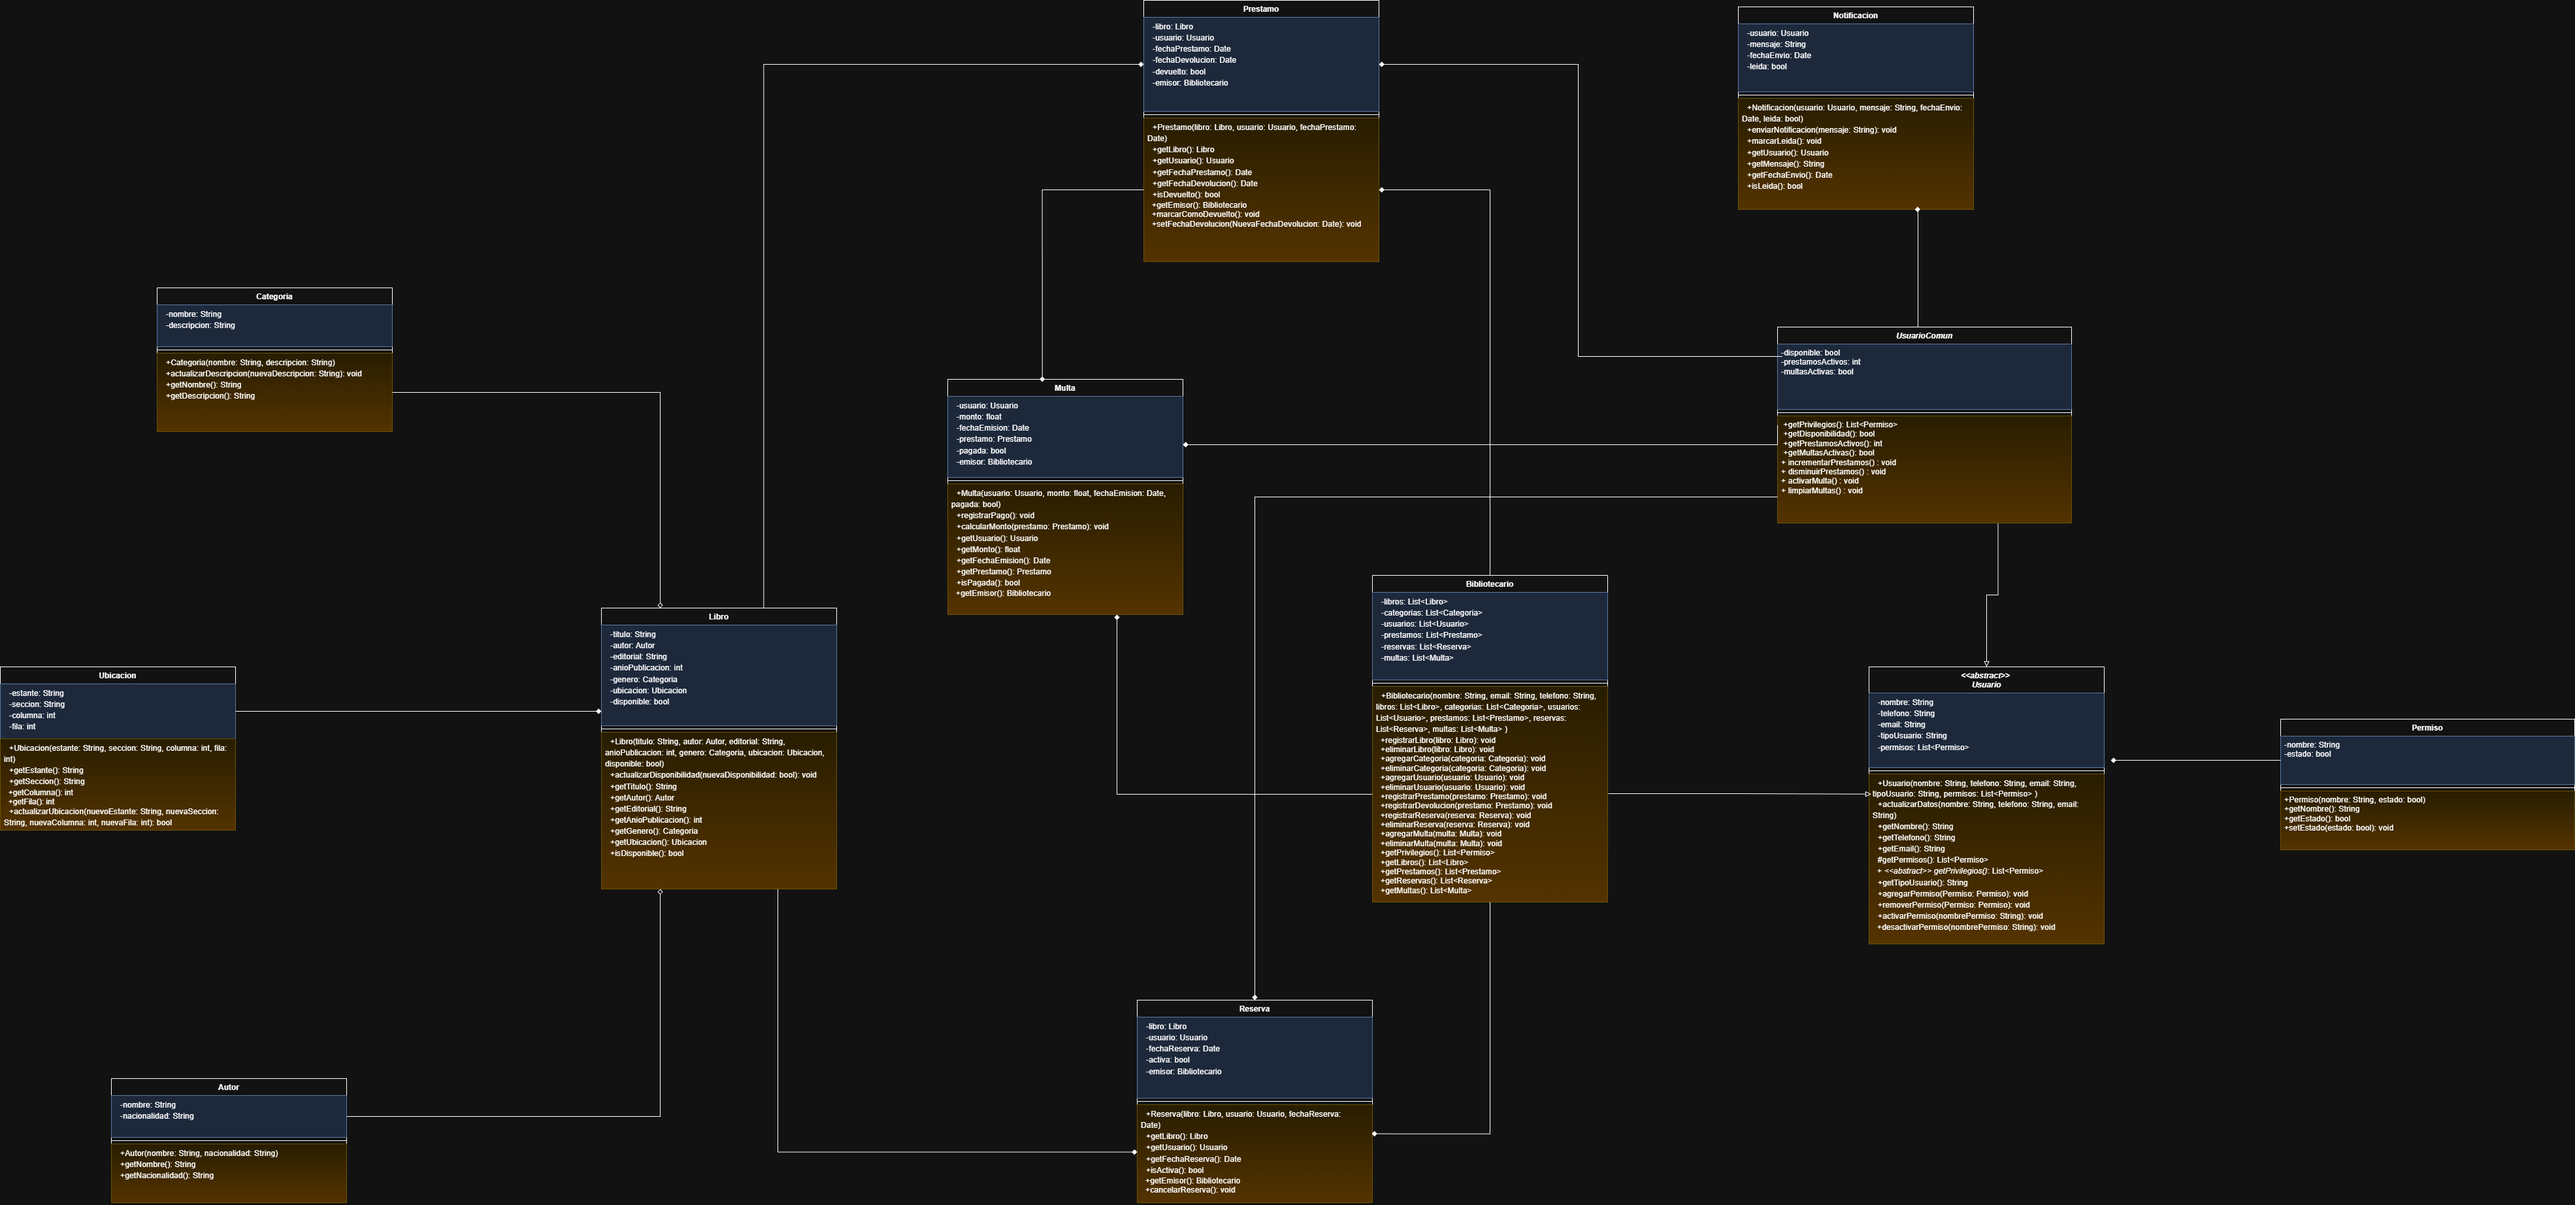
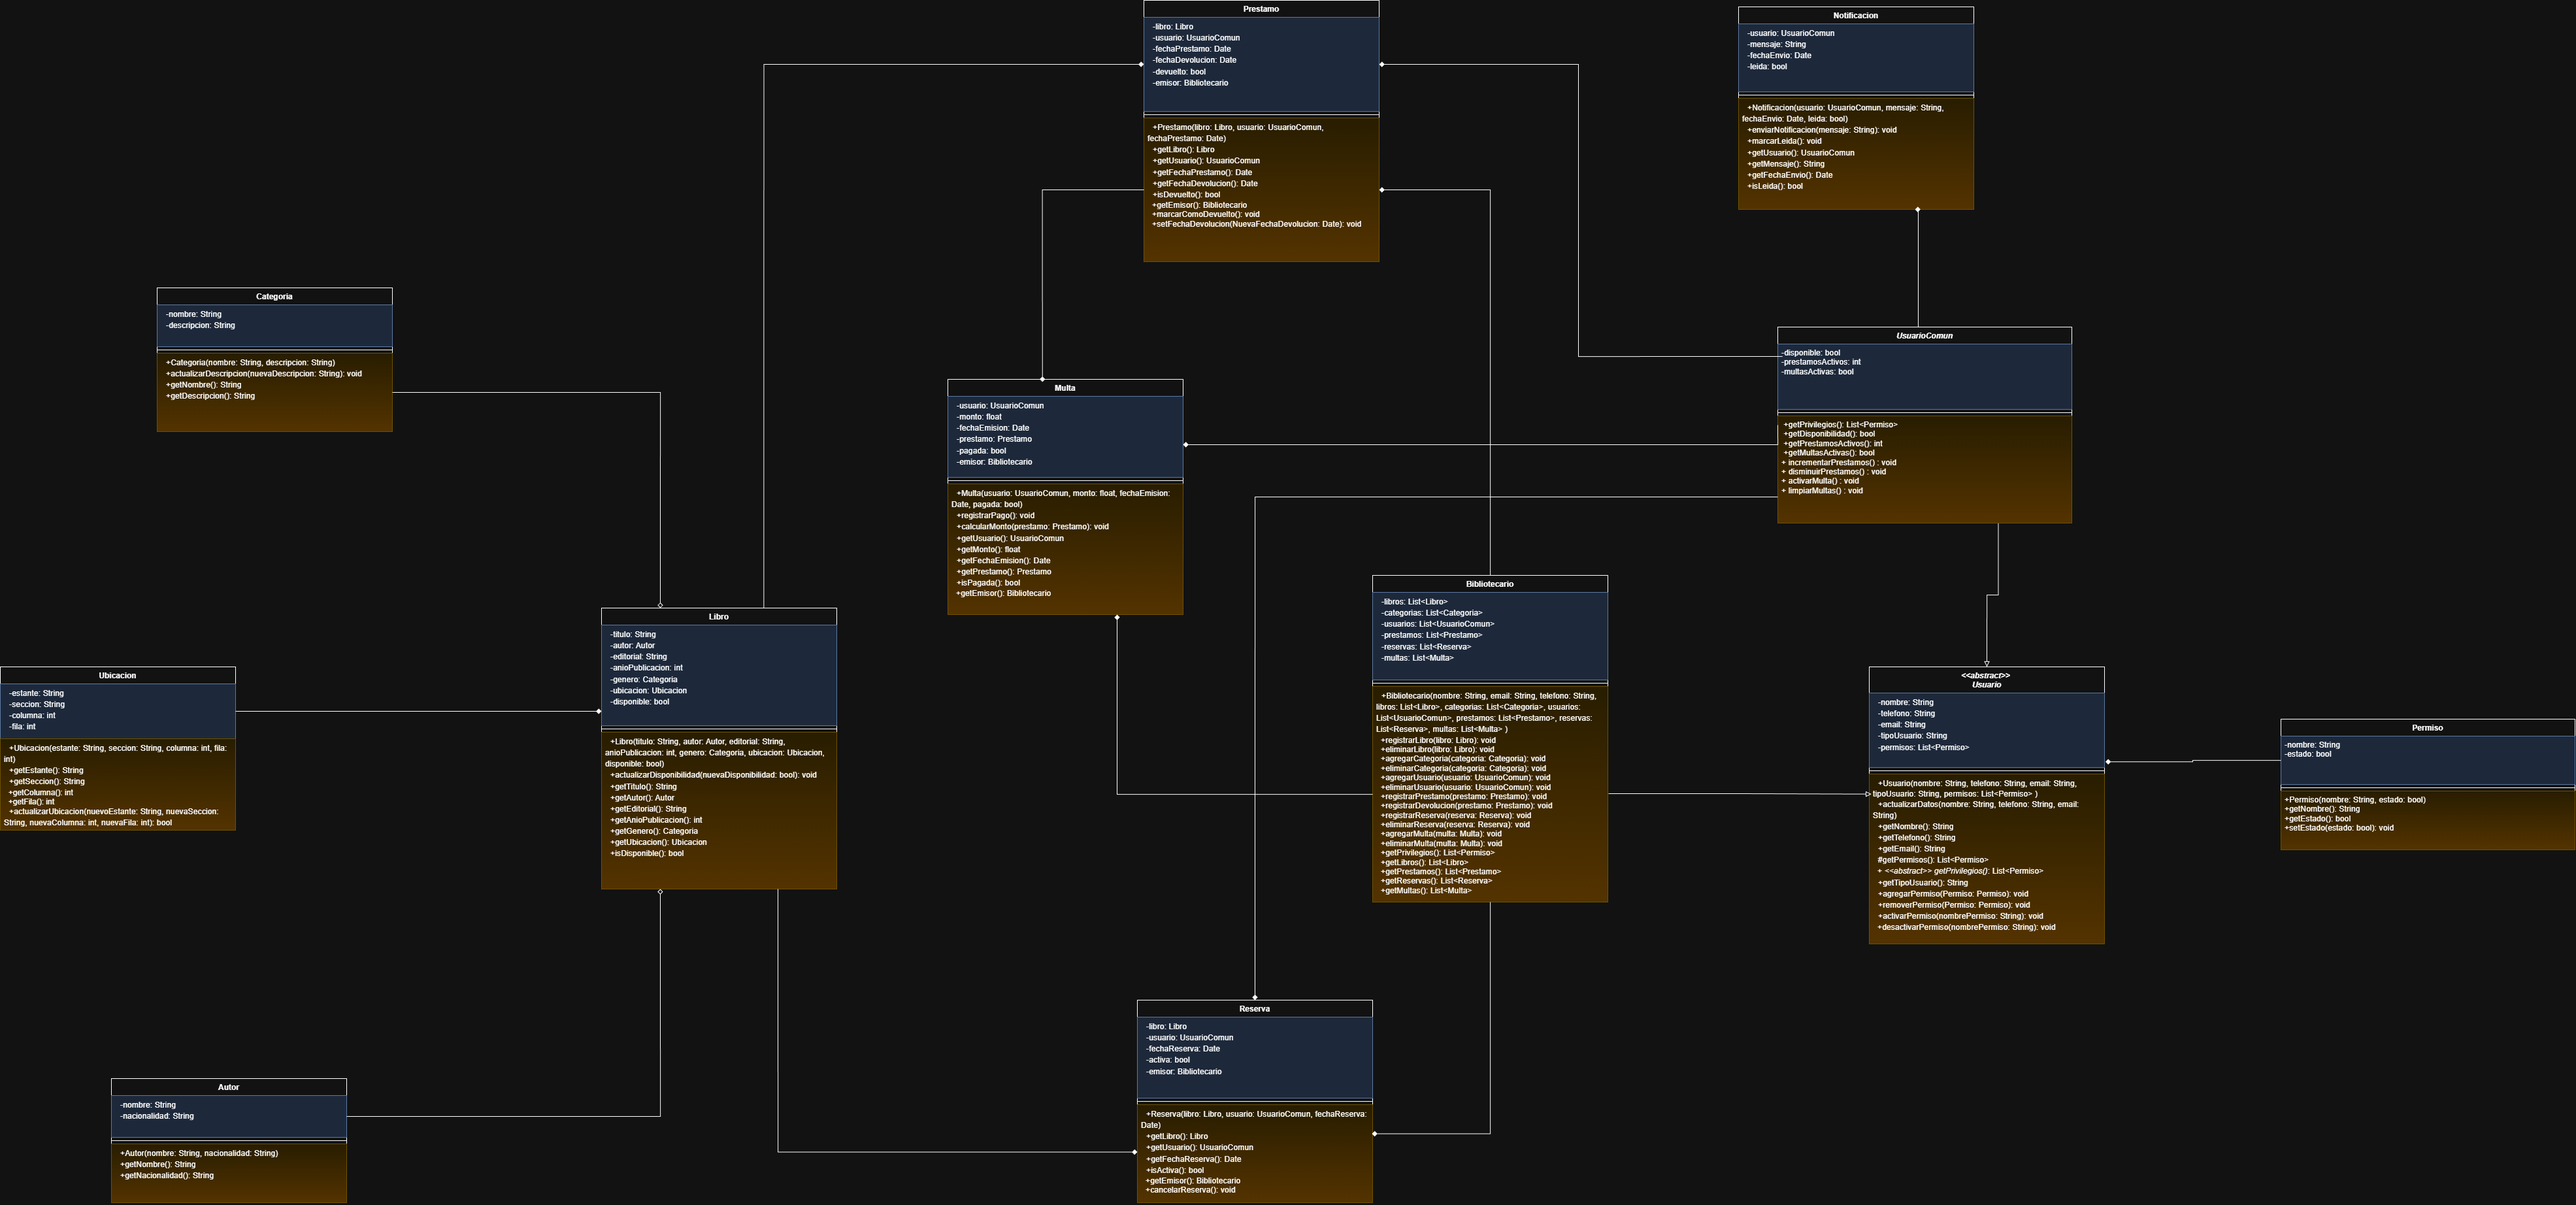
arreglando relaciones con UsuarioComun

diff --git a/biblioteca/Bibliotecario.java b/biblioteca/Bibliotecario.java
@@ -60,81 +60,71 @@ public class Bibliotecario extends Usuario {
     }
 
 
-    // --- Control de permisos en préstamo y reserva ---
+    // --- Control de permisos en préstamo ---
     public void registrarPrestamo(Prestamo prestamo) {
-        Usuario usuario = prestamo.getUsuario();
 
-        // Verifica si el usuario puede solicitar prestamo
-        if (usuario instanceof UsuarioComun) {
-            UsuarioComun uc = (UsuarioComun) usuario;
+        UsuarioComun usuario = prestamo.getUsuario(); // ← CAMBIO
 
-            boolean tienePermiso = false;
-            for (Permiso p : uc.getPrivilegios()) {
-                if (p.getNombre().equalsIgnoreCase("SolicitarPrestamo") && p.getEstado()) {
-                    tienePermiso = true;
-                    break;
-                }
+        boolean tienePermiso = false;
+        for (Permiso p : usuario.getPrivilegios()) {
+            if (p.getNombre().equalsIgnoreCase("SolicitarPrestamo") && p.getEstado()) {
+                tienePermiso = true;
+                break;
             }
-
-            if (!tienePermiso) {
-                System.out.println("El usuario tiene multas o prestamos activos. No puede solicitar mas prestamos.");
-            }
-
-            uc.incrementarPrestamos();
         }
 
+        if (!tienePermiso) {
+            System.out.println("El usuario tiene multas o prestamos activos. No puede solicitar más préstamos.");
+        }
+
+        usuario.incrementarPrestamos();
         prestamos.add(prestamo);
     }
 
+
+    // --- Control de permisos en reserva ---
     public void registrarReserva(Reserva reserva) {
-        Usuario usuario = reserva.getUsuario();
 
-        if (usuario instanceof UsuarioComun) {
-            UsuarioComun uc = (UsuarioComun) usuario;
+        UsuarioComun usuario = reserva.getUsuario(); // ← CAMBIO
 
-            boolean tienePermiso = false;
-            for (Permiso p : uc.getPrivilegios()) {
-                if (p.getNombre().equalsIgnoreCase("SolicitarPrestamo") && p.getEstado()) {
-                    tienePermiso = true;
-                    break;
-                }
+        boolean tienePermiso = false;
+        for (Permiso p : usuario.getPrivilegios()) {
+            if (p.getNombre().equalsIgnoreCase("SolicitarPrestamo") && p.getEstado()) {
+                tienePermiso = true;
+                break;
             }
+        }
 
-            if (!tienePermiso) {
-                System.out.println("El usuario tiene multas o prestamos activos. No puede hacer reservas.");
-            }
+        if (!tienePermiso) {
+            System.out.println("El usuario tiene multas o prestamos activos. No puede hacer reservas.");
         }
 
         reservas.add(reserva);
     }
 
+
+    // --- Registrar devolución ---
     public void registrarDevolucion(Prestamo prestamo) {
+
         if (prestamos.remove(prestamo)) {
-            Usuario usuario = prestamo.getUsuario();
-            if (usuario instanceof UsuarioComun) {
-                UsuarioComun uc = (UsuarioComun) usuario;
-                uc.disminuirPrestamos();
-            }
+            UsuarioComun usuario = prestamo.getUsuario(); // ← CAMBIO
+            usuario.disminuirPrestamos();
         }
     }
 
+
+    // --- Multas ---
     public void agregarMulta(Multa multa) {
         multas.add(multa);
 
-        Usuario usuario = multa.getUsuario();
-        if (usuario instanceof UsuarioComun) {
-            UsuarioComun uc = (UsuarioComun) usuario;
-            uc.activarMulta();
-        }
+        UsuarioComun usuario = multa.getUsuario(); // ← CAMBIO
+        usuario.activarMulta();
     }
 
     public void eliminarMulta(Multa multa) {
         if (multas.remove(multa)) {
-            Usuario usuario = multa.getUsuario();
-            if (usuario instanceof UsuarioComun) {
-                UsuarioComun uc = (UsuarioComun) usuario;
-                uc.limpiarMultas();
-            }
+            UsuarioComun usuario = multa.getUsuario(); // ← CAMBIO
+            usuario.limpiarMultas();
         }
     }
 

diff --git a/biblioteca/Main.java b/biblioteca/Main.java
@@ -70,7 +70,7 @@ public class Main {
         bibliotecario.registrarLibro(libro1);
         bibliotecario.registrarLibro(libro2);
 
-        // 7. Registrar préstamo (ajuste: registrarPrestamo devuelve void)
+        // 7. Registrar préstamo
         Calendar calendar = Calendar.getInstance();
         Date fechaPrestamo = calendar.getTime();
         calendar.add(Calendar.DAY_OF_MONTH, 7);
@@ -80,7 +80,7 @@ public class Main {
         bibliotecario.registrarPrestamo(prestamo1);
         System.out.println("Préstamo creado: " + prestamo1.getLibro().getTitulo());
 
-        // 8. Registrar reserva (ajuste: registrarReserva devuelve void)
+        // 8. Registrar reserva
         Reserva reserva1 = new Reserva(libro2, usuario1, new Date(), bibliotecario);
         bibliotecario.registrarReserva(reserva1);
         System.out.println("Reserva registrada para: " + reserva1.getLibro().getTitulo());
@@ -112,14 +112,14 @@ public class Main {
         System.out.println("Reservas activas: " + bibliotecario.getReservas().size());
         System.out.println("Multas pendientes: " + bibliotecario.getMultas().size());
 
-        // === BLOQUE AÑADIDO: Demostración de POLIMORFISMO ===
+        // === POLIMORFISMO ===
         System.out.println("\n--- Demostración de Polimorfismo ---");
 
-        // Variables del tipo padre Usuario
-        Usuario usuarioComunPoli = usuario1;
+        // *** CAMBIO HECHO AQUÍ ***
+        UsuarioComun usuarioComunPoli = usuario1;  // ← antes era Usuario usuarioComunPoli
+
         Usuario bibliotecarioPoli = bibliotecario;
 
-        // Lista polimórfica
         List<Usuario> usuarios = new ArrayList<>();
         usuarios.add(usuarioComunPoli);
         usuarios.add(bibliotecarioPoli);
@@ -145,7 +145,7 @@ public class Main {
         Date fechaDevolucionDemo = new Date(fechaPrestamoDemo.getTime() + 7 * 24 * 60 * 60 * 1000);
 
         Prestamo prestamoDemo = new Prestamo(libroDemo, usuarioComunPoli, fechaPrestamoDemo, fechaDevolucionDemo, bibliotecario);
-        bibliotecario.registrarPrestamo(prestamoDemo); // se usa prestamoDemo correctamente
+        bibliotecario.registrarPrestamo(prestamoDemo);
         System.out.println("Préstamo polimórfico creado por " + usuarioComunPoli.getNombre() +
                 " del libro " + prestamoDemo.getLibro().getTitulo());
 

diff --git a/biblioteca/Multa.java b/biblioteca/Multa.java
@@ -3,15 +3,15 @@ package biblioteca;
 import java.util.Date;
 
 public class Multa {
-    private Usuario usuario;
+    private UsuarioComun usuario;   // ← CAMBIO APLICADO
     private float monto;
     private Date fechaEmision;
     private Prestamo prestamo;
     private boolean pagada;
     private Bibliotecario emisor;
 
-    public Multa(Usuario usuario, float monto, Date fechaEmision, boolean pagada, Bibliotecario emisor, Prestamo prestamo) {
-        this.usuario = usuario;
+    public Multa(UsuarioComun usuario, float monto, Date fechaEmision, boolean pagada, Bibliotecario emisor, Prestamo prestamo) {  // ← CAMBIO APLICADO
+        this.usuario = usuario;   // ← CAMBIO APLICADO
         this.monto = monto;
         this.fechaEmision = fechaEmision;
         this.pagada = pagada;
@@ -22,11 +22,8 @@ public class Multa {
     public void registrarPago() {
         this.pagada = true;
 
-        // ✅ Compatible con Java 8 / 11
-        if (usuario instanceof UsuarioComun) {
-            UsuarioComun uc = (UsuarioComun) usuario;
-            uc.limpiarMultas();
-        }
+        // Ya no es necesario el instanceof porque siempre es UsuarioComun
+        usuario.limpiarMultas();   // ← CAMBIO APLICADO
     }
 
     public void calcularMonto(Prestamo prestamo) {
@@ -48,7 +45,7 @@ public class Multa {
         this.fechaEmision = fechaActual;
     }
 
-    public Usuario getUsuario() { return usuario; }
+    public UsuarioComun getUsuario() { return usuario; }   // ← CAMBIO APLICADO
     public float getMonto() { return monto; }
     public Date getFechaEmision() { return fechaEmision; }
     public Prestamo getPrestamo() { return prestamo; }

diff --git a/biblioteca/Prestamo.java b/biblioteca/Prestamo.java
@@ -4,15 +4,15 @@ import java.util.Date;
 
 public class Prestamo {
     private Libro libro;
-    private Usuario usuario;
+    private UsuarioComun usuario;   // ← CAMBIO APLICADO
     private Date fechaPrestamo;
     private Date fechaDevolucion;
     private boolean devuelto;
     private Bibliotecario emisor;
 
-    public Prestamo(Libro libro, Usuario usuario, Date fechaPrestamo, Date fechaDevolucion, Bibliotecario emisor) {
+    public Prestamo(Libro libro, UsuarioComun usuario, Date fechaPrestamo, Date fechaDevolucion, Bibliotecario emisor) {
         this.libro = libro;
-        this.usuario = usuario;
+        this.usuario = usuario;   // ← CAMBIO APLICADO
         this.fechaPrestamo = fechaPrestamo;
         this.fechaDevolucion = fechaDevolucion;
         this.devuelto = false;
@@ -20,7 +20,7 @@ public class Prestamo {
     }
 
     public Libro getLibro() { return libro; }
-    public Usuario getUsuario() { return usuario; }
+    public UsuarioComun getUsuario() { return usuario; }  // ← CAMBIO APLICADO
     public Date getFechaPrestamo() { return fechaPrestamo; }
     public Date getFechaDevolucion() { return fechaDevolucion; }
     public boolean isDevuelto() { return devuelto; }
@@ -34,10 +34,6 @@ public class Prestamo {
         this.devuelto = true;
         libro.actualizarDisponibilidad(true);
 
-        // ✅ Compatible con Java 8 / 11
-        if (usuario instanceof UsuarioComun) {
-            UsuarioComun uc = (UsuarioComun) usuario;
-            uc.disminuirPrestamos();
-        }
+        usuario.disminuirPrestamos();  // ← Ya no se necesita instanceof (es siempre UsuarioComun)
     }
 }

diff --git a/biblioteca/Reserva.java b/biblioteca/Reserva.java
@@ -1,16 +1,17 @@
 package biblioteca;
+
 import java.util.Date;
 
 public class Reserva {
     private Libro libro;
-    private Usuario usuario;
+    private UsuarioComun usuario;   // ← CAMBIO APLICADO
     private Date fechaReserva;
     private boolean activa;
     private Bibliotecario emisor;
 
-    public Reserva(Libro libro, Usuario usuario, Date fechaReserva, Bibliotecario emisor) {
+    public Reserva(Libro libro, UsuarioComun usuario, Date fechaReserva, Bibliotecario emisor) {  // ← CAMBIO APLICADO
         this.libro = libro;
-        this.usuario = usuario;
+        this.usuario = usuario;   // ← CAMBIO APLICADO
         this.fechaReserva = fechaReserva;
         this.activa = true;
         this.emisor = emisor;
@@ -20,7 +21,7 @@ public class Reserva {
         return libro;
     }
 
-    public Usuario getUsuario() {
+    public UsuarioComun getUsuario() {   // ← CAMBIO APLICADO
         return usuario;
     }
 
@@ -39,5 +40,4 @@ public class Reserva {
     public void cancelarReserva() {
         this.activa = false;
     }
-
 }
